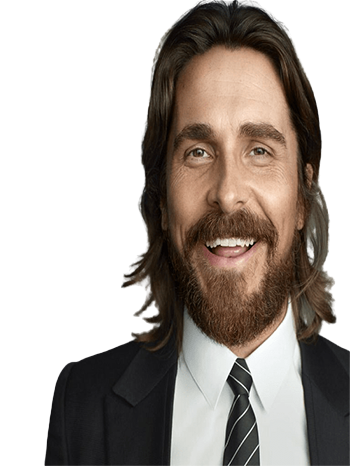
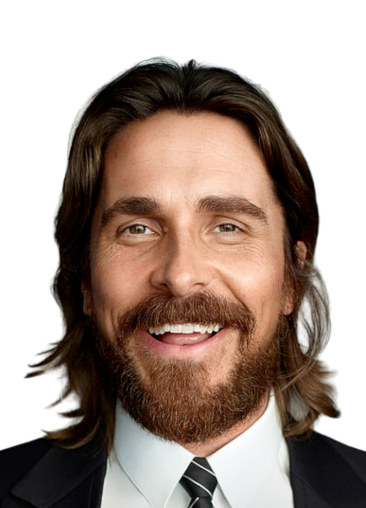
reloaded new agent picture so it wasnt squished. Adjusted Logout button styling and hover styling.

diff --git a/public/css/style.css b/public/css/style.css
@@ -35,7 +35,11 @@ body {
 }
 
 .caption {
+  width: 100%;
+  margin: 25px;
+  display: flex;
   justify-content: center;
+  align-items: center;
   flex-direction: column;
 }
 
@@ -46,7 +50,24 @@ body {
   align-items: center;
   color: black;
   width: 50vw;
-  margin-right: 20px;
+  margin-right: 50px;
+}
+
+.logout-hdr {
+  background: none;
+  color: inherit;
+  border: none;
+  padding: 0;
+  margin: 0;
+  font: inherit;
+  cursor: pointer;
+  outline: inherit;
+  text-align: start;
+}
+
+.logout-hdr:hover {
+  color: #23527c;
+  text-decoration: underline;
 }
 
 a:link {
@@ -140,9 +161,18 @@ input[type="submit"]:hover {
     100% {background-position: 0% 50%;}
 }
 
-.meadow {
+#login-alert {
+  color: white;
+  font-weight: 600;
   display: flex;
   justify-content: center;
+}
+
+.meadow {
+  display: flex;
+  flex-direction: column;
+  justify-content: center;
+  align-items: center;
   background-image: url("../images/meadow.jpeg");
   height: 83vh;
   width: 100%;
@@ -208,7 +238,7 @@ img {
   align-items: center;
   padding: 20px;
   margin-bottom: 25px;
-  background-color: rgba(141, 140, 140, 0.342);
+  background-color: rgba(141, 140, 140, 0.5);
   font-size: larger;
 }
 
@@ -219,5 +249,5 @@ img {
   align-items: center;
   padding: 20px;
   margin-bottom: 25px;
-  background-color: rgba(141, 140, 140, 0.342);
+  background-color: rgba(141, 140, 140, 0.596);
 }
